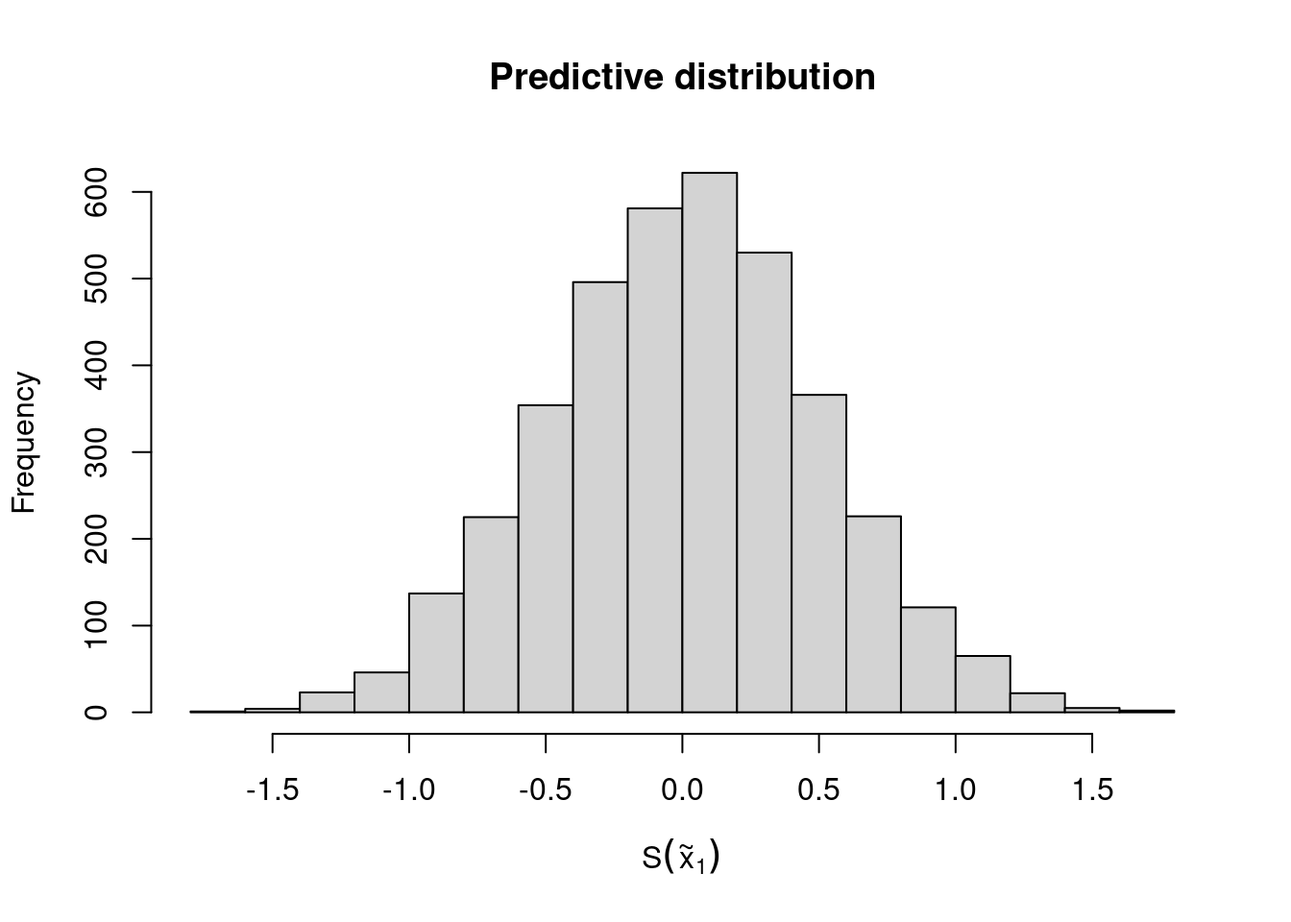
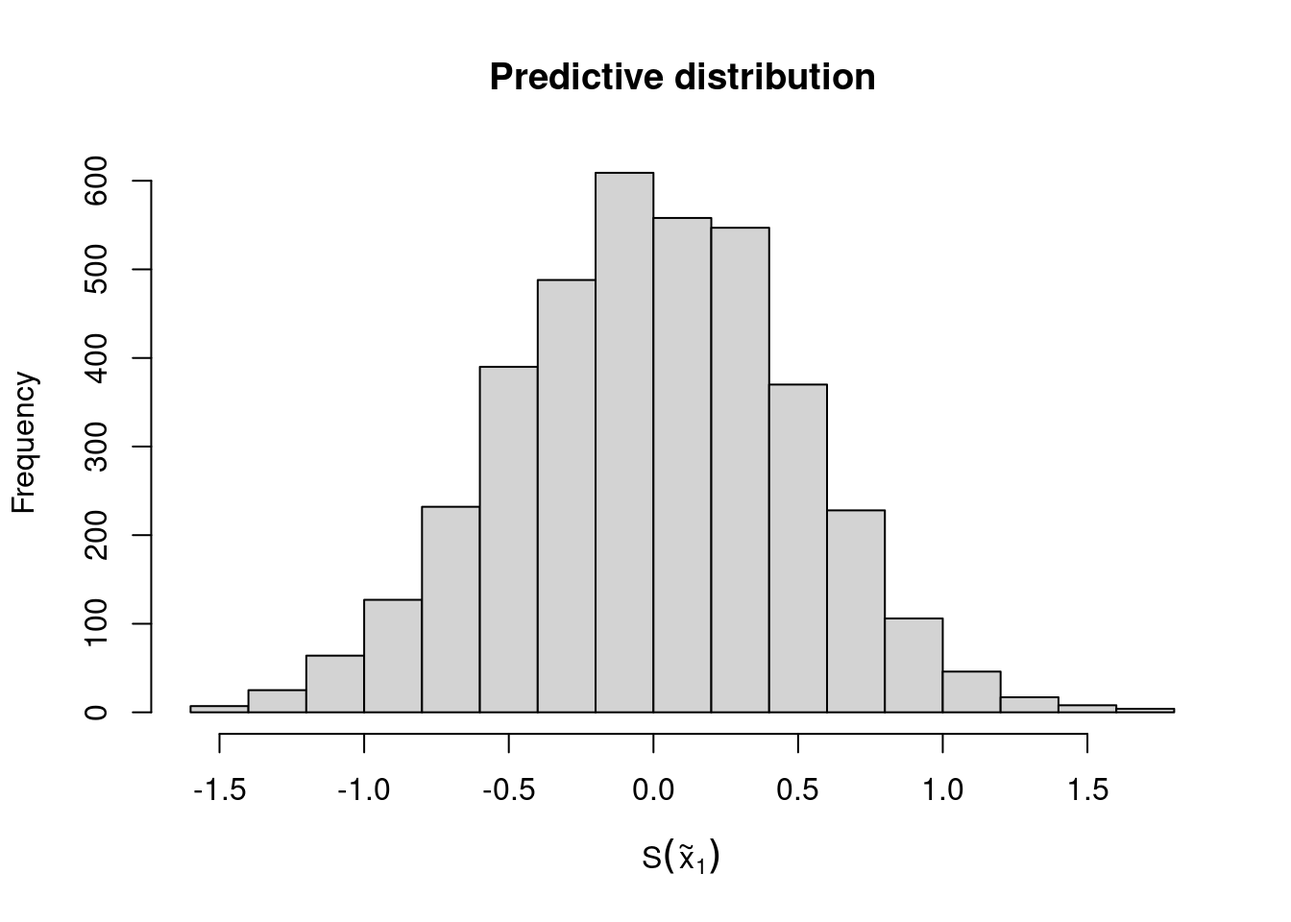
- First draft spatially continuous target predictions

diff --git a/_book/05_geostatistical-prediction.html b/_book/05_geostatistical-prediction.html
@@ -219,14 +219,14 @@ div.csl-indent {
   <li><a href="#introduction" id="toc-introduction" class="nav-link" data-scroll-target="#introduction"><span class="header-section-number">5.1</span> Introduction</a></li>
   <li><a href="#sec-spat-pred-target" id="toc-sec-spat-pred-target" class="nav-link" data-scroll-target="#sec-spat-pred-target"><span class="header-section-number">5.2</span> Spatial prediction using geostatistical models</a>
   <ul class="collapse">
-  <li><a href="#summary-with-example-continue-from-sec-liberia-estim1" id="toc-summary-with-example-continue-from-sec-liberia-estim1" class="nav-link" data-scroll-target="#summary-with-example-continue-from-sec-liberia-estim1"><span class="header-section-number">5.2.1</span> Summary with example (continue from <span>Section&nbsp;3.3.1</span>)</a></li>
+  <li><a href="#sec-pred-samples" id="toc-sec-pred-samples" class="nav-link" data-scroll-target="#sec-pred-samples"><span class="header-section-number">5.2.1</span> Generating samples from the predictive distribution of <span class="math inline">\(S(\tilde{X})\)</span> (continue from <span>Section&nbsp;3.3.1</span>)</a></li>
   </ul></li>
   <li><a href="#spatially-continuous-targets" id="toc-spatially-continuous-targets" class="nav-link" data-scroll-target="#spatially-continuous-targets"><span class="header-section-number">5.3</span> Spatially continuous targets</a>
   <ul class="collapse">
   <li><a href="#spatial-prediction-with-spatially-referenced-covariates" id="toc-spatial-prediction-with-spatially-referenced-covariates" class="nav-link" data-scroll-target="#spatial-prediction-with-spatially-referenced-covariates"><span class="header-section-number">5.3.1</span> Spatial prediction with spatially referenced covariates</a></li>
   <li><a href="#sec-non-spar-covariates" id="toc-sec-non-spar-covariates" class="nav-link" data-scroll-target="#sec-non-spar-covariates"><span class="header-section-number">5.3.2</span> Spatial prediction with non spatial covariates</a></li>
   </ul></li>
-  <li><a href="#area-level-targets" id="toc-area-level-targets" class="nav-link" data-scroll-target="#area-level-targets"><span class="header-section-number">5.4</span> Area-level targets</a></li>
+  <li><a href="#areal-level-targets" id="toc-areal-level-targets" class="nav-link" data-scroll-target="#areal-level-targets"><span class="header-section-number">5.4</span> Areal-level targets</a></li>
   <li><a href="#comparing-the-predictive-performance-of-geostatistical-models" id="toc-comparing-the-predictive-performance-of-geostatistical-models" class="nav-link" data-scroll-target="#comparing-the-predictive-performance-of-geostatistical-models"><span class="header-section-number">5.5</span> Comparing the predictive performance of geostatistical models</a></li>
   <li><a href="#sec-theory-prediction" id="toc-sec-theory-prediction" class="nav-link" data-scroll-target="#sec-theory-prediction"><span class="header-section-number">5.6</span> Theory</a>
   <ul class="collapse">
@@ -296,7 +296,7 @@ div.csl-indent {
 <h2 data-number="5.1" class="anchored" data-anchor-id="introduction"><span class="header-section-number">5.1</span> Introduction</h2>
 <p>Geostatistics was originally developed and applied as a predictive tool for improving mining operations and planning. In the seminal paper on model-based geostatistics (MBG) <span class="citation" data-cites="diggle1998">(<a href="references.html#ref-diggle1998" role="doc-biblioref">Diggle, Tawn, and Moyeed 1998</a>)</span>, the authors begin by stating:</p>
 <blockquote class="blockquote">
-<p><em>“Conventional geostatistical methodology solves the problem of predicting the realized value of a linear functional of a Gaussian spatial stochastic process <span class="math inline">\(S(x)\)</span> based on observations <span class="math inline">\(Y_i= S(x_i) + Z_i\)</span> at sampling locations <span class="math inline">\(x_i\)</span>, where the <span class="math inline">\(Z_i\)</span> are mutually independent, zero-mean Gaussian random variables.”</em></p>
+<p>*“Conventional geostatistical methodology solves the problem of predicting the realized value of a linear functional of a Gaussian spatial stochastic process* <span class="math inline">\(S(x)\)</span> based on observations <span class="math inline">\(Y_i= S(x_i) + Z_i\)</span> at sampling locations <span class="math inline">\(x_i\)</span>, where the <span class="math inline">\(Z_i\)</span> are mutually independent, zero-mean Gaussian random variables.”</p>
 </blockquote>
 <p>It is no coincidence that, although MBG represents a broad class of statistical models applicable to both estimation and prediction problems, the majority of its applications have focused on prediction. This is evident in many scientific fields where MBG has been used, including global public health, which is the primary application focus in this book. In line with the quote above, for most of the examples considered in this book, the analyses we illustrate aim to use a finite set of locations <span class="math inline">\(x_i\)</span> — typically corresponding to households or villages — to make inferences about an observed disease risk surface. Having performed estimation of MBG models in <a href="03_model-fitting.html"><span>Chapter&nbsp;3</span></a>, we can now carry out spatial prediction to answer critical public health questions, such as identifying hot-spots and cold-spots — areas of unusually high or low disease risk, respectively — or determining whether the average prevalence across a region exceeds a predefined policy threshold.</p>
 <p>In this chapter, we will explore these issues, beginning with a formal statistical formulation of the spatial prediction problem and a description of the necessary steps for its implementation. We will then demonstrate how spatial prediction is performed when considering predictive targets at both the <em>pixel-level</em> and <em>areal-level</em>. Finally, we will conclude the chapter by presenting methods for comparing the predictive performance of different models, with some insights into their relative strengths and weaknesses.</p>
@@ -315,11 +315,11 @@ div.csl-indent {
 <li><p><strong>Spatially continuous targets</strong> correspond to an unobserved spatially continuous surface (e.g.&nbsp;disease prevalence), formally denoted by <span class="math inline">\(\mathcal{T} = \{T(x), x \in A\}\)</span>, where <span class="math inline">\(A\)</span> is our region of interest.</p></li>
 <li><p><strong>Areal-level targets</strong>, usually defined as transformation of the spatially continuous surface <span class="math inline">\(\mathcal{T}\)</span>, defined previously, and which we denote as <span class="math inline">\(\mathcal{T}_{A} = F(\mathcal{T}, A)\)</span>. For example, the average of <span class="math inline">\(T(x)\)</span> over <span class="math inline">\(A\)</span> is an areal-level target, formally defined as <span class="math inline">\(F(\mathcal{T}, A) = \int_{A} T(x) \: dx / |A|\)</span>, where <span class="math inline">\(|A|\)</span> is the area of <span class="math inline">\(A\)</span>.</p></li>
 </ul>
-<p>Before we consider these two types of prediction targets more in detail, we first explain the preliminary steps that need to be performed and are common to both. Whether our goal is predict a spatially continuous or areal-level target, the initial task is to draw Monte Carlo samples from the predictive distribution of the spatial process <span class="math inline">\(S(x)\)</span><a href="#fn1" class="footnote-ref" id="fnref1" role="doc-noteref"><sup>1</sup></a>. Next, we define a set of prediction locations, say <span class="math inline">\(q\)</span> in total, denoted as <span class="math inline">\(\tilde{X} = {\tilde{x}_1, \ldots, \tilde{x}_q}\)</span>. These locations correspond to a regular grid that spans our region of interest, <span class="math inline">\(A\)</span>. the predictive distribution of the spatial process over the grid, represented as <span class="math inline">\([S(\tilde{X}) | y]\)</span>. This distribution allows us to generate Monte Carlo samples for <span class="math inline">\(S(\tilde{X})\)</span>, which will later be used for computing our target.</p>
-<p>At this stage, we need to consider which of the two following types of predictions from <span class="math inline">\([S(\tilde{X}) | y]\)</span> are required.</p>
+<p>Before we consider these two types of prediction targets more in detail, we first explain the preliminary steps that need to be performed and are common to both. Whether our goal is predict a spatially continuous or areal-level target, the initial task is to draw Monte Carlo samples from the predictive distribution of the spatial process <span class="math inline">\(S(x)\)</span><a href="#fn1" class="footnote-ref" id="fnref1" role="doc-noteref"><sup>1</sup></a>. Next, we define a set of prediction locations, say <span class="math inline">\(q\)</span> in total, denoted as <span class="math inline">\(\tilde{X} = {\tilde{x}_1, \ldots, \tilde{x}_q}\)</span>. These locations correspond to a regular grid that spans our region of interest, <span class="math inline">\(A\)</span>. the predictive distribution of the spatial process over the grid, represented as <span class="math inline">\([S(\tilde{X}) \: |\: y]\)</span>. This distribution allows us to generate Monte Carlo samples for <span class="math inline">\(S(\tilde{X})\)</span>, which will later be used for computing our target.</p>
+<p>At this stage, we need to consider which of the two following types of predictions from <span class="math inline">\([S(\tilde{X}) \: |\: y]\)</span> are required.</p>
 <ul>
-<li><p><strong>Marginal predictions</strong> are obtained by simulating independently from the <span class="math inline">\(q\)</span> marginal predictive distributions of <span class="math inline">\([S(\tilde{X}) | y]\)</span>. In other words, we consider a prediction location <span class="math inline">\(\tilde{x}_j\)</span>, simulate from <span class="math inline">\([S(\tilde{x}_j) | y]\)</span> say <span class="math inline">\(B\)</span> samples, and repeat this for <span class="math inline">\(j=1,\ldots,q\)</span></p></li>
-<li><p><strong>Joint predictions</strong> are obtained by simulating from the joint distribution of <span class="math inline">\([S(\tilde{X}) | y]\)</span>. Unlike marginal predictions, joint predictions take into account the correlation between the different components of <span class="math inline">\([S(\tilde{X}) | y]\)</span>.</p></li>
+<li><p><strong>Marginal predictions</strong> are obtained by simulating independently from the <span class="math inline">\(q\)</span> marginal predictive distributions of <span class="math inline">\([S(\tilde{X}) | y]\)</span>. In other words, we consider a prediction location <span class="math inline">\(\tilde{x}_j\)</span>, simulate from <span class="math inline">\([S(\tilde{x}_j) \: |\: y]\)</span> say <span class="math inline">\(B\)</span> samples, and repeat this for <span class="math inline">\(j=1,\ldots,q\)</span></p></li>
+<li><p><strong>Joint predictions</strong> are obtained by simulating from the joint distribution of <span class="math inline">\([S(\tilde{X}) \: |\: y]\)</span>. Unlike marginal predictions, joint predictions take into account the correlation between the different components of <span class="math inline">\([S(\tilde{X}) \: |\: y]\)</span>.</p></li>
 </ul>
 <p>To better understand the technical differences between marginal and joint predictions, we refer you to <a href="#sec-pred-distr-theory"><span>Section&nbsp;5.6.1</span></a>. However, in practice, the two following facts are important.</p>
 <ul>
@@ -327,8 +327,8 @@ div.csl-indent {
 <li><p><em>Fact 2</em>. Joint predictions are required when the predictive target is at areal-level.</p></li>
 <li><p><em>Fact 3</em>. For spatially continuous targets, both marginal and joint predictions can be used but, in light of <em>Fact 1</em>, we might prefer using the former.</p></li>
 </ul>
-<section id="summary-with-example-continue-from-sec-liberia-estim1" class="level3" data-number="5.2.1">
-<h3 data-number="5.2.1" class="anchored" data-anchor-id="summary-with-example-continue-from-sec-liberia-estim1"><span class="header-section-number">5.2.1</span> Summary with example (continue from <a href="03_model-fitting.html#sec-liberia-estim1"><span>Section&nbsp;3.3.1</span></a>)</h3>
+<section id="sec-pred-samples" class="level3" data-number="5.2.1">
+<h3 data-number="5.2.1" class="anchored" data-anchor-id="sec-pred-samples"><span class="header-section-number">5.2.1</span> Generating samples from the predictive distribution of <span class="math inline">\(S(\tilde{X})\)</span> (continue from <a href="03_model-fitting.html#sec-liberia-estim1"><span>Section&nbsp;3.3.1</span></a>)</h3>
 <p>We now show how the ideas and concepts discussed above are put into practice in an geostatistical analysis, using the Liberia data example. Using the fitted model in <a href="03_model-fitting.html#sec-liberia-estim1"><span>Section&nbsp;3.3.1</span></a>, we use the <code>predict_over_grid</code> function in <code>RiskMap</code>, to sample from the predictive distribution of the spatial Gaussian process <span class="math inline">\(S(x)\)</span> based on a regular grid spanning the country of Liberia.</p>
 <p>The <code>pred_over_grid</code> function enables us to predict the the separate effects of the covariates, given by <span class="math inline">\(d(x)^\top \beta\)</span>, and the spatial random effects, <span class="math inline">\(S(x)\)</span>, at any desired location <span class="math inline">\(x\)</span>. Hence, before we can use the <code>pred_over_grid</code> function, we need to do 1) obtain a shape file that defines the boundaries of our study area, 2) use that to create a regular grid and 3) extract the covariates values at those locations. The R script below performs all these steps.</p>
 <div class="cell">
@@ -369,6 +369,7 @@ div.csl-indent {
 <span id="cb2-14"><a href="#cb2-14" aria-hidden="true" tabindex="-1"></a>               <span class="at">type =</span> <span class="st">"joint"</span>)</span></code><button title="Copy to Clipboard" class="code-copy-button"><i class="bi"></i></button></pre></div>
 </div>
 <p>Both <code>lb_pred_S_m</code> and <code>lb_pred_S_j</code> contain lists with the same arguments, with one key difference: the samples in the list element named <code>S_samples</code> for the former are drawn from the marginal predictive distributions of the components of <span class="math inline">\(S(\tilde{X})\)</span>, while for the latter, they come from the joint predictive distribution of <span class="math inline">\(S(\tilde{X})\)</span>.</p>
+<p>An important note is that in the code above we have used the default settings for the Markov Chain Monte Carlo (MCMC). To change these setting use the function <code>set_control_sim</code> whose output should be passed to the argument <code>contol_sim</code> of <code>pred_over_grid</code>. The diagnostic on the convergence of the MCMC can also be applying the <code>check_mcmc</code> function to either <code>lb_pred_S_m</code> or <code>lb_pred_S_j</code>; see <a href="03_model-fitting.html#sec-summary"><span>Section&nbsp;3.4.2.3</span></a> for more details.</p>
 <p>We can inspect the predictive distribution of any component <span class="math inline">\(S(\tilde{X})\)</span> through the Monte Carlo samples stored in <code>S_samples</code>. For example, the script below generates the histogram for the predictive distribution of the first component of <span class="math inline">\(S(\tilde{X})\)</span> (<a href="#fig-hist-first-comp-pd">Figure&nbsp;<span>5.1</span></a>).</p>
 <div class="cell">
 <div class="sourceCode cell-code" id="cb3"><pre class="sourceCode r code-with-copy"><code class="sourceCode r"><span id="cb3-1"><a href="#cb3-1" aria-hidden="true" tabindex="-1"></a><span class="fu">hist</span>(lb_pred_S_m<span class="sc">$</span>S_samples[,<span class="dv">1</span>], <span class="at">main =</span> <span class="st">"Predictive distribution"</span>,</span>
@@ -386,6 +387,93 @@ div.csl-indent {
 </section>
 <section id="spatially-continuous-targets" class="level2" data-number="5.3">
 <h2 data-number="5.3" class="anchored" data-anchor-id="spatially-continuous-targets"><span class="header-section-number">5.3</span> Spatially continuous targets</h2>
+<p>In the previous section, we explained and demonstrated how to obtain Monte Carlo samples from the predictive distribution of <span class="math inline">\(S(\tilde{X})\)</span>, which we denoted by <span class="math inline">\([S(\tilde{X}) \: |\: y]\)</span>. Let <span class="math inline">\(S_{(j)}(\tilde{X})\)</span> and <span class="math inline">\([S(\tilde{X}) \: |\: y]\)</span> represent the <span class="math inline">\(j\)</span>-th Monte Carlo samples for the entire grid and the specific location <span class="math inline">\(x_k\)</span>, respectively, for <span class="math inline">\(j=1,\ldots,B\)</span> and <span class="math inline">\(k=1,\ldots,q\)</span>.</p>
+<p>We define our predictive target, <span class="math inline">\(T(x)\)</span>, at any given location <span class="math inline">\(x\)</span>, as a transformation of <span class="math inline">\(S(x)\)</span>. Thus, we express it as <span class="math inline">\(T(x) = f{S(x)}\)</span>. Note that <span class="math inline">\(f(\cdot)\)</span> can represent any type of non-linear transformation of <span class="math inline">\(S(x)\)</span> and may include covariate effects and other non-structured random effects. A list of common predictive targets frequently used in geostatistical analysis is provided in <a href="#tbl-spat-cont-pred-target">Table&nbsp;<span>5.1</span></a>.</p>
+<div id="tbl-spat-cont-pred-target" class="anchored">
+<table class="table">
+<caption>Table&nbsp;5.1: List of some of the most common spatially continuous predictive targets in a geostatistical analysis. For each target, we also indicate the generalized linear model (GLM) family for which these can be defined. Note that this list not exhaustive and different predictive other than those listed in the table could also be considered.</caption>
+<colgroup>
+<col style="width: 38%">
+<col style="width: 30%">
+<col style="width: 31%">
+</colgroup>
+<thead>
+<tr class="header">
+<th>Predictive target <span class="math inline">\(T(x)\)</span></th>
+<th>Name of the predictive target</th>
+<th>Generalized linear model (GLM) family</th>
+</tr>
+</thead>
+<tbody>
+<tr class="odd">
+<td><span class="math inline">\(d(x)^\top \beta + S(x)\)</span></td>
+<td>Linear predictor</td>
+<td>Any GLM</td>
+</tr>
+<tr class="even">
+<td><span class="math inline">\(\frac{\exp\{d(x)^\top \beta + S(x)\}}{1+\exp\{d(x)^\top \beta + S(x)\}}\)</span></td>
+<td>Prevalence</td>
+<td>Binomial</td>
+</tr>
+<tr class="odd">
+<td><span class="math inline">\(\exp\{d(x)^\top \beta + S(x)\}\)</span></td>
+<td>Mean number of cases</td>
+<td>Poisson</td>
+</tr>
+<tr class="even">
+<td><span class="math inline">\(S(x)\)</span></td>
+<td>Spatial random effects</td>
+<td>Any GLM</td>
+</tr>
+<tr class="odd">
+<td><span class="math inline">\(d(x)^\top \beta\)</span></td>
+<td>Covariates effects</td>
+<td>Any GLM</td>
+</tr>
+</tbody>
+</table>
+</div>
+<p>An important feature of the predictive targets listed in <a href="#tbl-spat-cont-pred-target">Table&nbsp;<span>5.1</span></a> is that none of them include the nugget effect, denoted by <span class="math inline">\(Z_i\)</span> in our linear predictor definition for generalized linear geostatistical models. The reason for excluding <span class="math inline">\(Z_i\)</span> from the predictive targets is that, in most cases, it lacks a clear, unambiguous scientific interpretation. However, <span class="math inline">\(Z_i\)</span> might be included, for example, in environmental studies focusing on highly localized phenomena where measurement error or small-scale variability is of direct scientific interest; or in epidemiological studies where inferences at the individual level, rather than the population level, are required, and where <span class="math inline">\(Z_i\)</span> is introduced to account for unexplained individual-level variation. It is also worth noticing, the primary impact of including <span class="math inline">\(Z_i\)</span> in <span class="math inline">\(T(x)\)</span> would be an increase in the uncertainty of predictive inferences for <span class="math inline">\(T(x)\)</span>, with minimal effect (or none at all, if <span class="math inline">\(T(x)\)</span> corresponds to the linear predictor) on the point predictions.</p>
+<p>The predictive targets in <a href="#tbl-spat-cont-pred-target">Table&nbsp;<span>5.1</span></a> corresponding to <span class="math inline">\(d(x)^\top \beta\)</span> or the spatial random effects <span class="math inline">\(S(x)\)</span> might be considered when the goal is to highlight the different contribution to the overall predictive inferences from the measured covariates.</p>
+<section id="example-mapping-riverblidness-prevalence-in-liberia-continuing-from-sec-pred-samples" class="level4" data-number="5.3.0.1">
+<h4 data-number="5.3.0.1" class="anchored" data-anchor-id="example-mapping-riverblidness-prevalence-in-liberia-continuing-from-sec-pred-samples"><span class="header-section-number">5.3.0.1</span> Example: mapping riverblidness prevalence in Liberia (continuing from <a href="#sec-pred-samples"><span>Section&nbsp;5.2.1</span></a>)</h4>
+<p>Let us continue the geostatistical of the riverblindness data in Liberia. The predictive target we consider is prevalence, hence <span class="math inline">\(T(x) = \frac{\exp\{ \beta_{0} + \beta_{1}\log\{e(x)\} + S(x)\}}{1+\exp\{\beta_{0} + \beta_{1}\log\{e(x)\} + S(x)\}}\)</span>, where <span class="math inline">\(e(x)\)</span> is the elevation in meters at location <span class="math inline">\(x\)</span>.</p>
+<p>Through the <code>pred_target_grid</code> we can use the output in <code>lb_pred_S_m</code> (or <code>lb_pred_S_j</code> as well, in this case) to generate predictions of prevalence over the regular grid at 5 km we have created earlier.</p>
+<div class="cell">
+<div class="sourceCode cell-code" id="cb4"><pre class="sourceCode r code-with-copy"><code class="sourceCode r"><span id="cb4-1"><a href="#cb4-1" aria-hidden="true" tabindex="-1"></a></span>
+<span id="cb4-2"><a href="#cb4-2" aria-hidden="true" tabindex="-1"></a><span class="co"># Prediction of riverblindness prevalence</span></span>
+<span id="cb4-3"><a href="#cb4-3" aria-hidden="true" tabindex="-1"></a>lb_prev <span class="ot">&lt;-</span> </span>
+<span id="cb4-4"><a href="#cb4-4" aria-hidden="true" tabindex="-1"></a><span class="fu">pred_target_grid</span>(</span>
+<span id="cb4-5"><a href="#cb4-5" aria-hidden="true" tabindex="-1"></a>  lb_pred_S_m, </span>
+<span id="cb4-6"><a href="#cb4-6" aria-hidden="true" tabindex="-1"></a>  <span class="at">f_target =</span> <span class="fu">list</span>(<span class="at">prev =</span> <span class="cf">function</span>(lp) <span class="fu">exp</span>(lp)<span class="sc">/</span>(<span class="dv">1</span><span class="sc">+</span><span class="fu">exp</span>(lp))),</span>
+<span id="cb4-7"><a href="#cb4-7" aria-hidden="true" tabindex="-1"></a>  <span class="at">pd_summary =</span> <span class="fu">list</span>(<span class="at">mean =</span> <span class="cf">function</span>(Tx) <span class="fu">mean</span>(Tx), </span>
+<span id="cb4-8"><a href="#cb4-8" aria-hidden="true" tabindex="-1"></a>                    <span class="at">cv =</span> <span class="cf">function</span>(Tx) <span class="fu">sd</span>(Tx)<span class="sc">/</span> <span class="fu">mean</span>(Tx),</span>
+<span id="cb4-9"><a href="#cb4-9" aria-hidden="true" tabindex="-1"></a>                    <span class="at">exceed20 =</span> <span class="cf">function</span>(Tx) <span class="fu">mean</span>(Tx <span class="sc">&gt;</span> <span class="fl">0.2</span>))</span>
+<span id="cb4-10"><a href="#cb4-10" aria-hidden="true" tabindex="-1"></a>)</span></code><button title="Copy to Clipboard" class="code-copy-button"><i class="bi"></i></button></pre></div>
+</div>
+<p>In the function above the argument <code>f_target</code> can take a list of functions, as multiple predictive targets can be defined. Here, we only specified prevalence (<code>prev</code>). Note that in defining the predictive target in <code>f_target</code>, we need to express that as a function of <span class="math inline">\(d(x)^\top \beta + S(x)\)</span>. The argument <code>include_covariates</code> also allows us to define predictive target that do not use covariates from the model. By default <code>include_covariates = TRUE</code>, hence in the code above covariates are part of what is defined as <code>lp</code>. To predict the spatial random effects <span class="math inline">\(S(x)\)</span> only, for example, you can set <code>include_covariates = FALSE</code> and <code>f_target = list(Sx = function(lp) lp)</code>. In <code>pd_summary</code>, we define the summaries that we want to visualize from the predictive distribution. Here, we have specified the mean, coefficient of variation and the probability of exceeding a 20<span class="math inline">\(\%\)</span> prevalence threshold.</p>
+<p>We can then visualise the resuling maps as follows.</p>
+<div class="cell">
+<div class="sourceCode cell-code" id="cb5"><pre class="sourceCode r code-with-copy"><code class="sourceCode r"><span id="cb5-1"><a href="#cb5-1" aria-hidden="true" tabindex="-1"></a><span class="co"># Displying the results</span></span>
+<span id="cb5-2"><a href="#cb5-2" aria-hidden="true" tabindex="-1"></a><span class="fu">par</span>(<span class="at">mfrow =</span> <span class="fu">c</span>(<span class="dv">1</span>,<span class="dv">3</span>))</span>
+<span id="cb5-3"><a href="#cb5-3" aria-hidden="true" tabindex="-1"></a><span class="fu">plot</span>(lb_prev, <span class="at">which_target =</span> <span class="st">"prev"</span>, </span>
+<span id="cb5-4"><a href="#cb5-4" aria-hidden="true" tabindex="-1"></a>     <span class="at">which_summary =</span> <span class="st">"mean"</span>, <span class="at">main =</span> <span class="st">"Mean"</span>)</span>
+<span id="cb5-5"><a href="#cb5-5" aria-hidden="true" tabindex="-1"></a><span class="fu">plot</span>(lb_prev, <span class="at">which_target =</span> <span class="st">"prev"</span>, </span>
+<span id="cb5-6"><a href="#cb5-6" aria-hidden="true" tabindex="-1"></a>     <span class="at">which_summary =</span> <span class="st">"cv"</span>, <span class="at">main =</span> <span class="st">"Coefficient of variation"</span>)</span>
+<span id="cb5-7"><a href="#cb5-7" aria-hidden="true" tabindex="-1"></a><span class="fu">plot</span>(lb_prev, <span class="at">which_target =</span> <span class="st">"prev"</span>, </span>
+<span id="cb5-8"><a href="#cb5-8" aria-hidden="true" tabindex="-1"></a>     <span class="at">which_summary =</span> <span class="st">"exceed20"</span>, <span class="at">main =</span> <span class="st">"Exceedance probability"</span>)</span>
+<span id="cb5-9"><a href="#cb5-9" aria-hidden="true" tabindex="-1"></a><span class="fu">par</span>(<span class="at">mfrow=</span><span class="fu">c</span>(<span class="dv">1</span>,<span class="dv">1</span>))</span></code><button title="Copy to Clipboard" class="code-copy-button"><i class="bi"></i></button></pre></div>
+<div class="cell-output-display">
+<div id="fig-lb-maps" class="quarto-figure quarto-figure-center anchored">
+<figure class="figure">
+<p><img src="05_geostatistical-prediction_files/figure-html/fig-lb-maps-1.png" class="img-fluid figure-img" width="672"></p>
+<figcaption class="figure-caption">Figure&nbsp;5.2: Mapping riverblindness in Liberia. Plots of the mean (left panel), coefficient of variation (central panel) and exceedance probability (right panel) for a 20% prevalence threshold.</figcaption>
+</figure>
+</div>
+</div>
+</div>
+<p>The maps in <a href="#fig-lb-maps">Figure&nbsp;<span>5.2</span></a> indicate a higher prevalence as we move away from the coast and at higher altitudes. A very similar spatial pattern is observed in the likelihood of exceeding 20<span class="math inline">\(\%\)</span> prevalence. Also, based on the map of the coefficient of variation, the uncertainty around the point predictions of prevalence is higher along the coast and lower in the inland areas of Liberia.</p>
+</section>
 <section id="spatial-prediction-with-spatially-referenced-covariates" class="level3" data-number="5.3.1">
 <h3 data-number="5.3.1" class="anchored" data-anchor-id="spatial-prediction-with-spatially-referenced-covariates"><span class="header-section-number">5.3.1</span> Spatial prediction with spatially referenced covariates</h3>
 </section>
@@ -393,8 +481,8 @@ div.csl-indent {
 <h3 data-number="5.3.2" class="anchored" data-anchor-id="sec-non-spar-covariates"><span class="header-section-number">5.3.2</span> Spatial prediction with non spatial covariates</h3>
 </section>
 </section>
-<section id="area-level-targets" class="level2" data-number="5.4">
-<h2 data-number="5.4" class="anchored" data-anchor-id="area-level-targets"><span class="header-section-number">5.4</span> Area-level targets</h2>
+<section id="areal-level-targets" class="level2" data-number="5.4">
+<h2 data-number="5.4" class="anchored" data-anchor-id="areal-level-targets"><span class="header-section-number">5.4</span> Areal-level targets</h2>
 </section>
 <section id="comparing-the-predictive-performance-of-geostatistical-models" class="level2" data-number="5.5">
 <h2 data-number="5.5" class="anchored" data-anchor-id="comparing-the-predictive-performance-of-geostatistical-models"><span class="header-section-number">5.5</span> Comparing the predictive performance of geostatistical models</h2>
